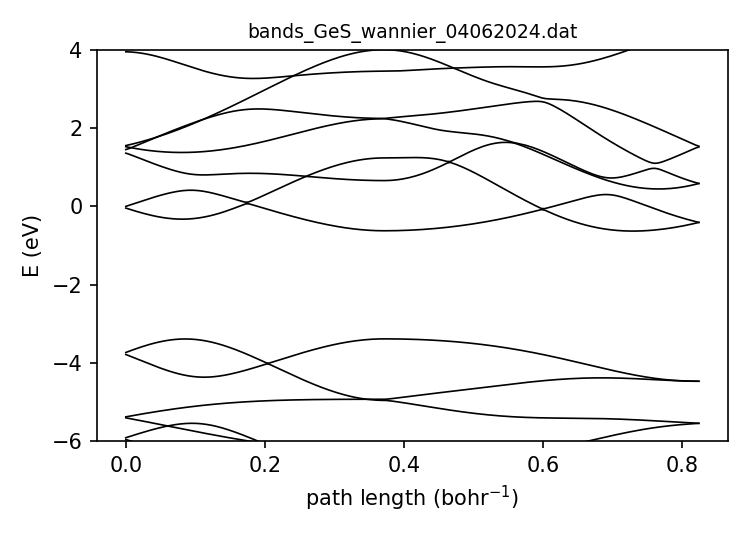
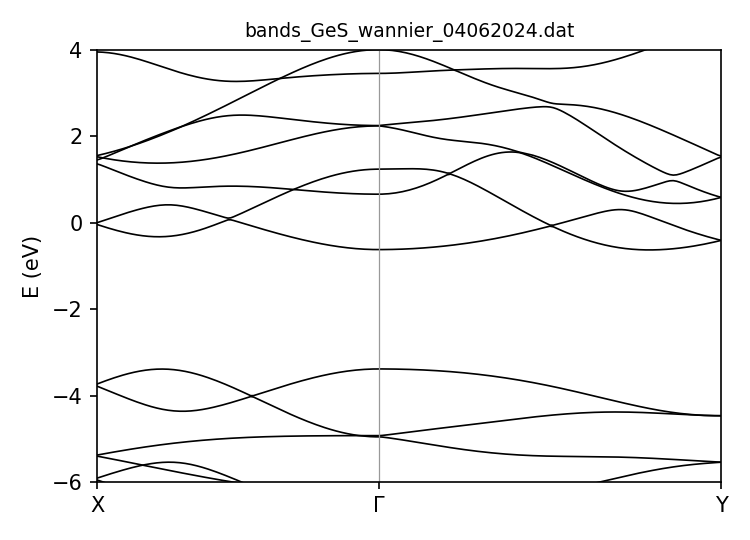
Use paper figures for excitonic examples and tighten band plot
- Landing page: show Fig. 4 (GeS shift conductivity, IPA vs BSE) from
  Esteve-Paredes et al., npj Comput. Mater. 11, 13 (2025)
- Quick start: add Fig. 2 (absorbance, IPA vs BSE) to the excitonic section
- Both figures reproduced unmodified with CC BY-NC-ND 4.0 attribution
- Band structure: x-axis limited to the data, X-Γ-Y tick labels, note
  that energies are not shifted to the Fermi level

diff --git a/docs/outputs/bands.rst b/docs/outputs/bands.rst
@@ -20,7 +20,7 @@ lattice vectors :math:`\mathbf{G}_1, \mathbf{G}_2`:
 
    \tfrac12\mathbf{G}_1 \;\longrightarrow\; \Gamma \;\longrightarrow\; \tfrac12\mathbf{G}_2
 
-100 points per segment. For a rectangular lattice this is X → Γ → Y. For a hexagonal lattice it is
+100 points per segment. Γ is point 100. For a rectangular lattice this is X → Γ → Y. For a hexagonal lattice it is
 M → Γ → M′, so the K points are **not** on the path.
 
 The path is built in the plane of :math:`\mathbf{G}_1, \mathbf{G}_2` and only makes sense for 2D systems
@@ -43,11 +43,15 @@ One row per k-point:
 
 ``E_1 … E_norb``
    All ``norb`` eigenvalues in eV, in ascending order. Band ``E_Nfermi`` is the highest valence band,
-   i.e. ``Bandlist`` entry ``0``.
+   i.e. ``Bandlist`` entry ``0``. The energies are those of the Wannier90 model, **not** shifted to put
+   the Fermi level at zero.
 
 .. code-block:: python
 
    import numpy as np, matplotlib.pyplot as plt
    b = np.loadtxt("bands_GeS_wannier_04062024.dat")
-   plt.plot(b[:, 3], b[:, 4:], "k")
+   s = b[:, 3]
+   plt.plot(s, b[:, 4:], "k")
+   plt.xlim(s[0], s[-1])
+   plt.xticks([s[0], s[99], s[-1]], ["X", "Γ", "Y"])   # ½G1, Γ, ½G2
    plt.ylabel("E (eV)")

diff --git a/docs/quickstart.rst b/docs/quickstart.rst
@@ -204,6 +204,17 @@ Besides the single-particle files from example 1, this run writes:
 The ``sp`` and ``ex`` files share the same format and frequency grid. Plotting them together shows the
 excitonic effects directly.
 
+Here is what a converged comparison looks like (absorbance computed from :math:`\mathrm{Re}\,\sigma^{aa}`,
+see :doc:`outputs/linear_conductivity`):
+
+.. figure:: images/paper_fig2_absorbance.jpg
+   :width: 55%
+   :align: center
+
+   Linear absorbance of monolayer MoS\ :sub:`2` (a) and monolayer GeS for armchair (b) and zigzag (c)
+   polarisation, in the IPA and with excitons (BSE).
+   Reproduced without modification from J. J. Esteve-Paredes *et al.*, `npj Comput. Mater. 11, 13 (2025) <https://doi.org/10.1038/s41524-024-01504-2>`_, under a `CC BY-NC-ND 4.0 <https://creativecommons.org/licenses/by-nc-nd/4.0/>`_ license.
+
 For the **excitonic shift current**, use ``nonlinear`` for both ``OME_sp`` and ``OME_ex``, and set
 ``Response`` to ``shift_shiftvector``. The result goes to ``shift_ex_lengthgauge_<material>.dat``, next
 to the single-particle ``shift_sp_lengthgauge_<material>.dat``. Excitonic second-order runs are much

diff --git a/docs/index.rst b/docs/index.rst
@@ -24,9 +24,13 @@ result too. That lets you see directly how the electron–hole interaction resha
    `Excitons in nonlinear optical responses: shift current in MoS2 and GeS monolayers,
    npj Computational Materials 11, 13 (2025) <https://doi.org/10.1038/s41524-024-01504-2>`_
 
-.. image:: images/ges_shift_sp.png
-   :width: 80%
+.. figure:: images/paper_fig4_ges_shift.jpg
+   :width: 60%
    :align: center
+
+   Shift conductivity of monolayer GeS computed with OptiX, in the independent-particle
+   approximation (IPA) and with excitons (BSE): (a) :math:`\sigma^{xxx}`, (b) :math:`\sigma^{xyy}`.
+   Reproduced without modification from J. J. Esteve-Paredes *et al.*, `npj Comput. Mater. 11, 13 (2025) <https://doi.org/10.1038/s41524-024-01504-2>`_, under a `CC BY-NC-ND 4.0 <https://creativecommons.org/licenses/by-nc-nd/4.0/>`_ license.
 
 How a calculation works
 =======================
